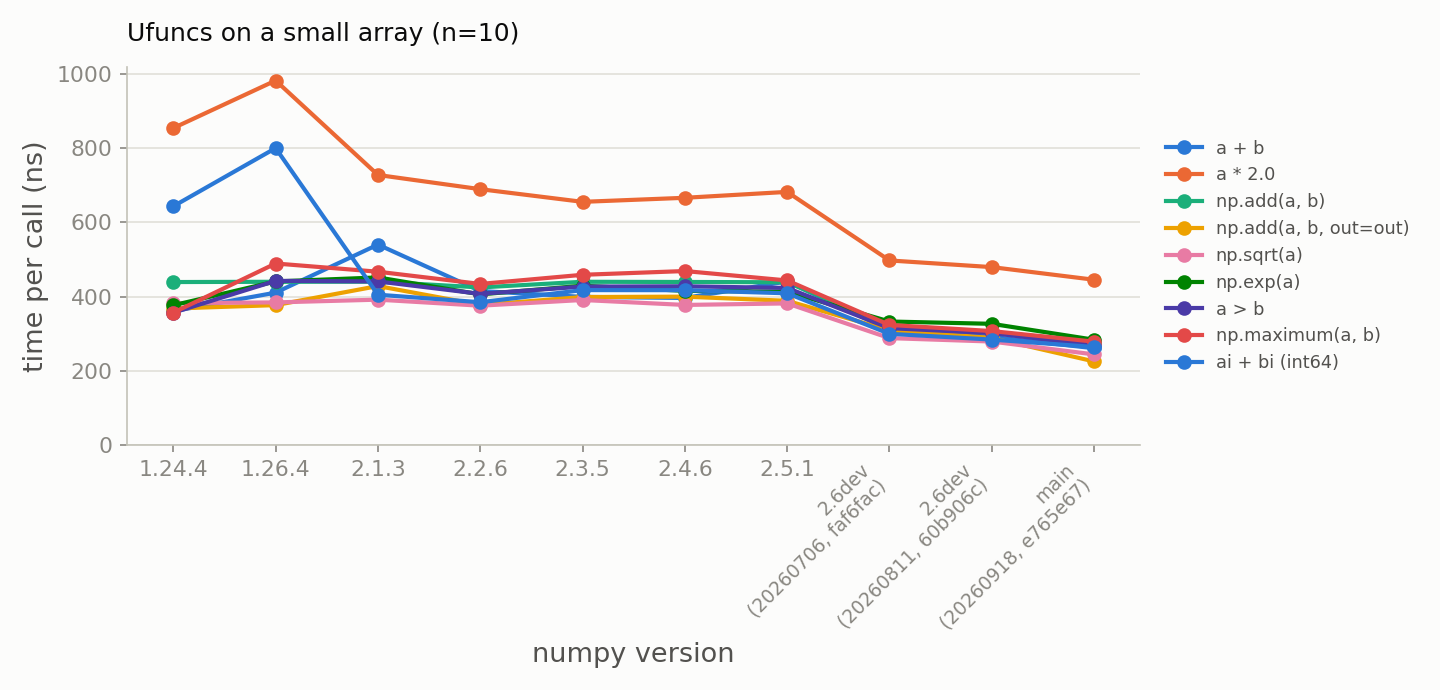
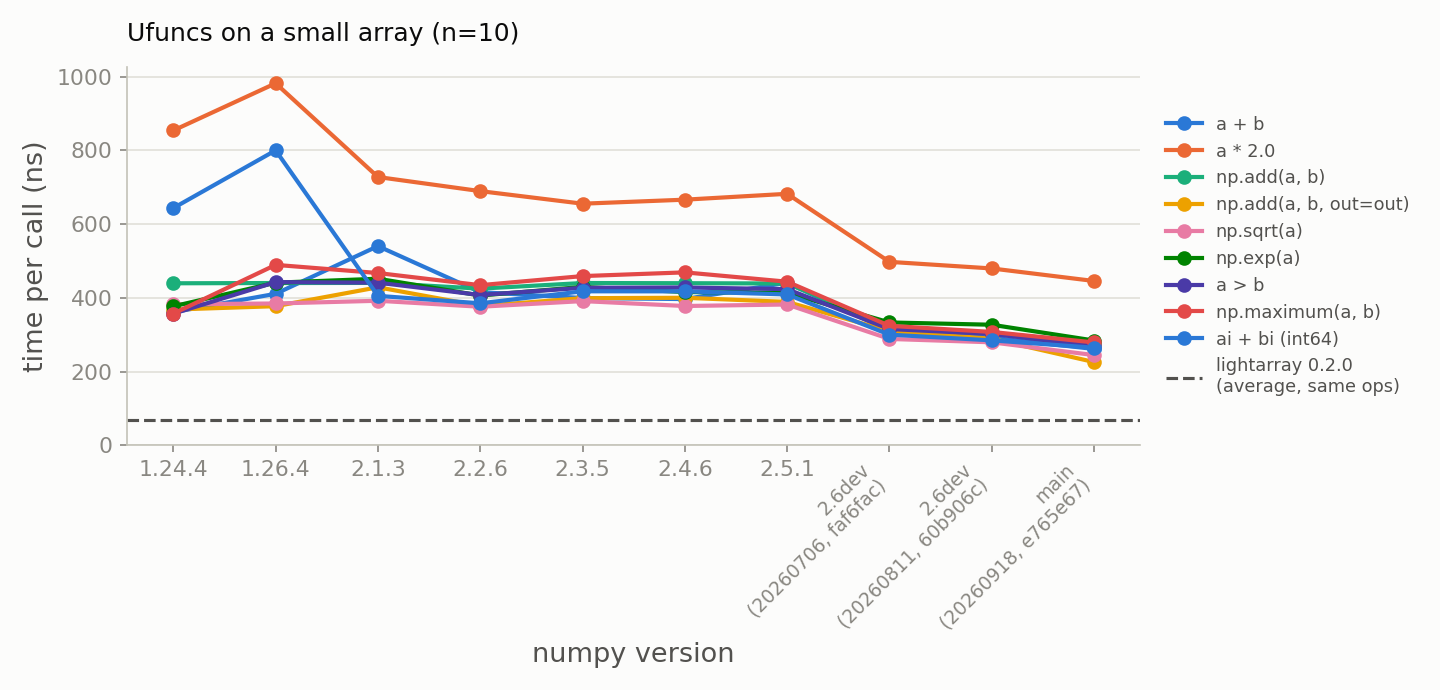
numpy_performance: lightarray reference line in the small-array ufunc chart
Time the ufunc-small cases with lightarray arrays as input and draw their
average (without the out= variant, which lightarray delegates to NumPy)
as a dashed line in the chart. Refresh the package comparison table.

diff --git a/numpy_performance/plot_results.py b/numpy_performance/plot_results.py
@@ -37,7 +37,8 @@ PLOTS = [
      lambda name: name not in SCALAR_MATH),
     ("scalar_math", "Scalar math with operators", "scalar",
      lambda name: name in SCALAR_MATH),
-    ("ufunc_small", "Ufuncs on a small array (n=10)", "ufunc-small", None),
+    ("ufunc_small", "Ufuncs on a small array (n=10)", "ufunc-small", None,
+     "ufunc_small_lightarray"),
     ("reduction_10", "Reductions on a small array (n=10)", "reduction-10",
      lambda name: name not in {"np.min", "np.all"}),
     ("reduction_1000", "Reductions on a contiguous array (n=1000)",
@@ -116,8 +117,34 @@ def style_axes(ax):
     ax.set_axisbelow(True)
 
 
-def plot_group(runs, group, title, outfile, name_filter=None):
-    """Line chart of one benchmark group (or a tuple of groups) across versions."""
+def lightarray_reference(key):
+    """Average time of the lightarray measurements stored under `key`.
+
+    Returns (mean_ns, label) or None when the package results are missing.
+    """
+    path = HERE / "results" / "small-array-packages.json"
+    if not path.exists():
+        return None
+    with open(path) as fh:
+        data = json.load(fh)
+    cases = data.get(key)
+    if not cases:
+        return None
+    # lightarray delegates the out= variant to NumPy (~4 µs); it says nothing
+    # about the package's own overhead, so it is left out of the average
+    cases = [c for c in cases if "out=" not in c["name"]]
+    mean_ns = sum(c["ns"] for c in cases) / len(cases)
+    version = data.get("versions", {}).get("lightarray", "")
+    label = f"lightarray {version}\n(average, same ops)"
+    return mean_ns, label
+
+
+def plot_group(runs, group, title, outfile, name_filter=None, reference=None):
+    """Line chart of one benchmark group (or a tuple of groups) across versions.
+
+    `reference` names a list in results/small-array-packages.json whose
+    average is drawn as a dashed horizontal line.
+    """
     groups = (group,) if isinstance(group, str) else tuple(group)
     labels = [display_label(r, with_python=False) for r in runs]
     names = [c["name"] for c in runs[-1]["results"] if c["group"] in groups]
@@ -145,6 +172,12 @@ def plot_group(runs, group, title, outfile, name_filter=None):
             values.append(entry.get(name))
         ax.plot(range(len(labels)), values, color=PALETTE[idx % len(PALETTE)],
                 linewidth=2, marker="o", markersize=6, label=name)
+
+    ref = lightarray_reference(reference) if reference else None
+    if ref is not None:
+        mean_ns, label = ref
+        ax.axhline(mean_ns, color=INK2, linestyle="--", linewidth=1.5,
+                   label=label, zorder=1)
 
     ax.set_ylim(bottom=0)
     ax.set_title(title, color=INK, fontsize=12, loc="left", pad=12)
@@ -207,9 +240,9 @@ def main():
     if not runs:
         raise SystemExit("no results found - run run_benchmarks.py first")
     (HERE / "images").mkdir(exist_ok=True)
-    for fname, title, group, name_filter in PLOTS:
+    for fname, title, group, name_filter, *extra in PLOTS:
         plot_group(runs, group, title, HERE / "images" / f"{fname}.png",
-                   name_filter)
+                   name_filter, reference=extra[0] if extra else None)
     plot_speedup(runs, HERE / "images" / "speedup_summary.png")
 
 

diff --git a/numpy_performance/bench_small_packages.py b/numpy_performance/bench_small_packages.py
@@ -10,6 +10,10 @@ results as JSON plus a markdown table on stdout:
 
 A package that does not provide an operation gets no entry (tinyarray has no
 trigonometric functions).
+
+The second part times the "ufunc-small" cases of bench_cases.py with
+lightarray arrays as input; plot_results.py draws their average as a reference
+line in the small-array ufunc chart.
 """
 
 import argparse
@@ -27,6 +31,8 @@ values = [float(i) for i in range(10)]
 a = np.array(values); b = np.ones(10)
 ta_a = ta.array(values); ta_b = ta.ones(10)
 la_a = la.array(values); la_b = la.ones(10)
+la_out = la.empty(10)
+la_i10 = la.array(list(range(10))); la_bi = la.ones(10, dtype=np.int64)
 """
 
 # (row label, {package: statement})
@@ -41,6 +47,19 @@ CASES = [
      {"numpy": "np.zeros(10)", "tinyarray": "ta.zeros(10)", "lightarray": "la.zeros(10)"}),
 ]
 PACKAGES = ["numpy", "tinyarray", "lightarray"]
+
+# the ufunc-small cases of bench_cases.py, with lightarray arrays as operands
+UFUNC_SMALL_LIGHTARRAY = [
+    ("a + b", "la_a + la_b"),
+    ("a * 2.0", "la_a * 2.0"),
+    ("np.add(a, b)", "la.add(la_a, la_b)"),
+    ("np.add(a, b, out=out)", "la.add(la_a, la_b, out=la_out)"),
+    ("np.sqrt(a)", "la.sqrt(la_a)"),
+    ("np.exp(a)", "la.exp(la_a)"),
+    ("a > b", "la_a > la_b"),
+    ("np.maximum(a, b)", "la.maximum(la_a, la_b)"),
+    ("ai + bi (int64)", "la_i10 + la_bi"),
+]
 
 REPEAT = 9
 TARGET_TIME = 0.02  # seconds per repeat
@@ -79,9 +98,16 @@ def main() -> None:
         print(f"| {row['case']} | " + " | ".join(cells) + " |")
     print(versions, file=sys.stderr)
 
+    ufunc_small = []
+    for name, stmt in UFUNC_SMALL_LIGHTARRAY:
+        ns = run_case(stmt)
+        ufunc_small.append({"name": name, "ns": round(ns, 1)})
+        print(f"  lightarray {name:<24} {ns:7.1f} ns", file=sys.stderr)
+
     data = {"versions": versions, "python": platform.python_version(),
             "system": platform.system(), "machine": platform.machine(),
-            "results": results}
+            "results": results,
+            "ufunc_small_lightarray": ufunc_small}
     if args.output:
         with open(args.output, "w") as fh:
             fh.write(json.dumps(data, indent=2) + "\n")

diff --git a/numpy_performance/numpy_small_array_performance.md b/numpy_performance/numpy_small_array_performance.md
@@ -112,6 +112,12 @@ Python scalar is converted and promoted on every call. One dtype note: int64
 `a + b` was ~1.7× slower than float64 on 1.24/1.26 and has been on par since
 2.1.
 
+The dashed line is a reference from outside NumPy: the average time of
+[lightarray](https://github.com/eendebakpt/lightarray) on the same
+operations, with lightarray arrays as input (see
+[below](#how-fast-could-it-be) for what that package is): ~70 ns. The `out=`
+variant is left out of the average, because lightarray delegates it to NumPy.
+
 ### Reductions: mean, sum, any, all, min, max
 
 <!-- Source: bench_cases.py, plot_results.py (reduction-10 group) -->
@@ -218,10 +224,10 @@ Julia's StaticArrays.jl is the same idea outside Python.
 
 | 10-element op | numpy main | tinyarray | lightarray |
 |---|---|---|---|
-| elementwise `a + b` | 269 ns | 40 ns | 70 ns |
-| `np.sin(a)` | 307 ns | — | 104 ns |
-| reduction (`np.sum` / `ta.dot` / `la.sum`) | 397 ns | 53 ns | 59 ns |
-| creation (`zeros(10)`) | 136 ns | 54 ns | 95 ns |
+| elementwise `a + b` | 257 ns | 40 ns | 71 ns |
+| `np.sin(a)` | 292 ns | — | 114 ns |
+| reduction (`np.sum` / `ta.dot` / `la.sum`) | 378 ns | 46 ns | 57 ns |
+| creation (`zeros(10)`) | 124 ns | 50 ns | 96 ns |
 
 tinyarray has no trigonometric functions, hence the empty cell. NumPy can
 never shed all of its protocol obligations, but these packages suggest that
